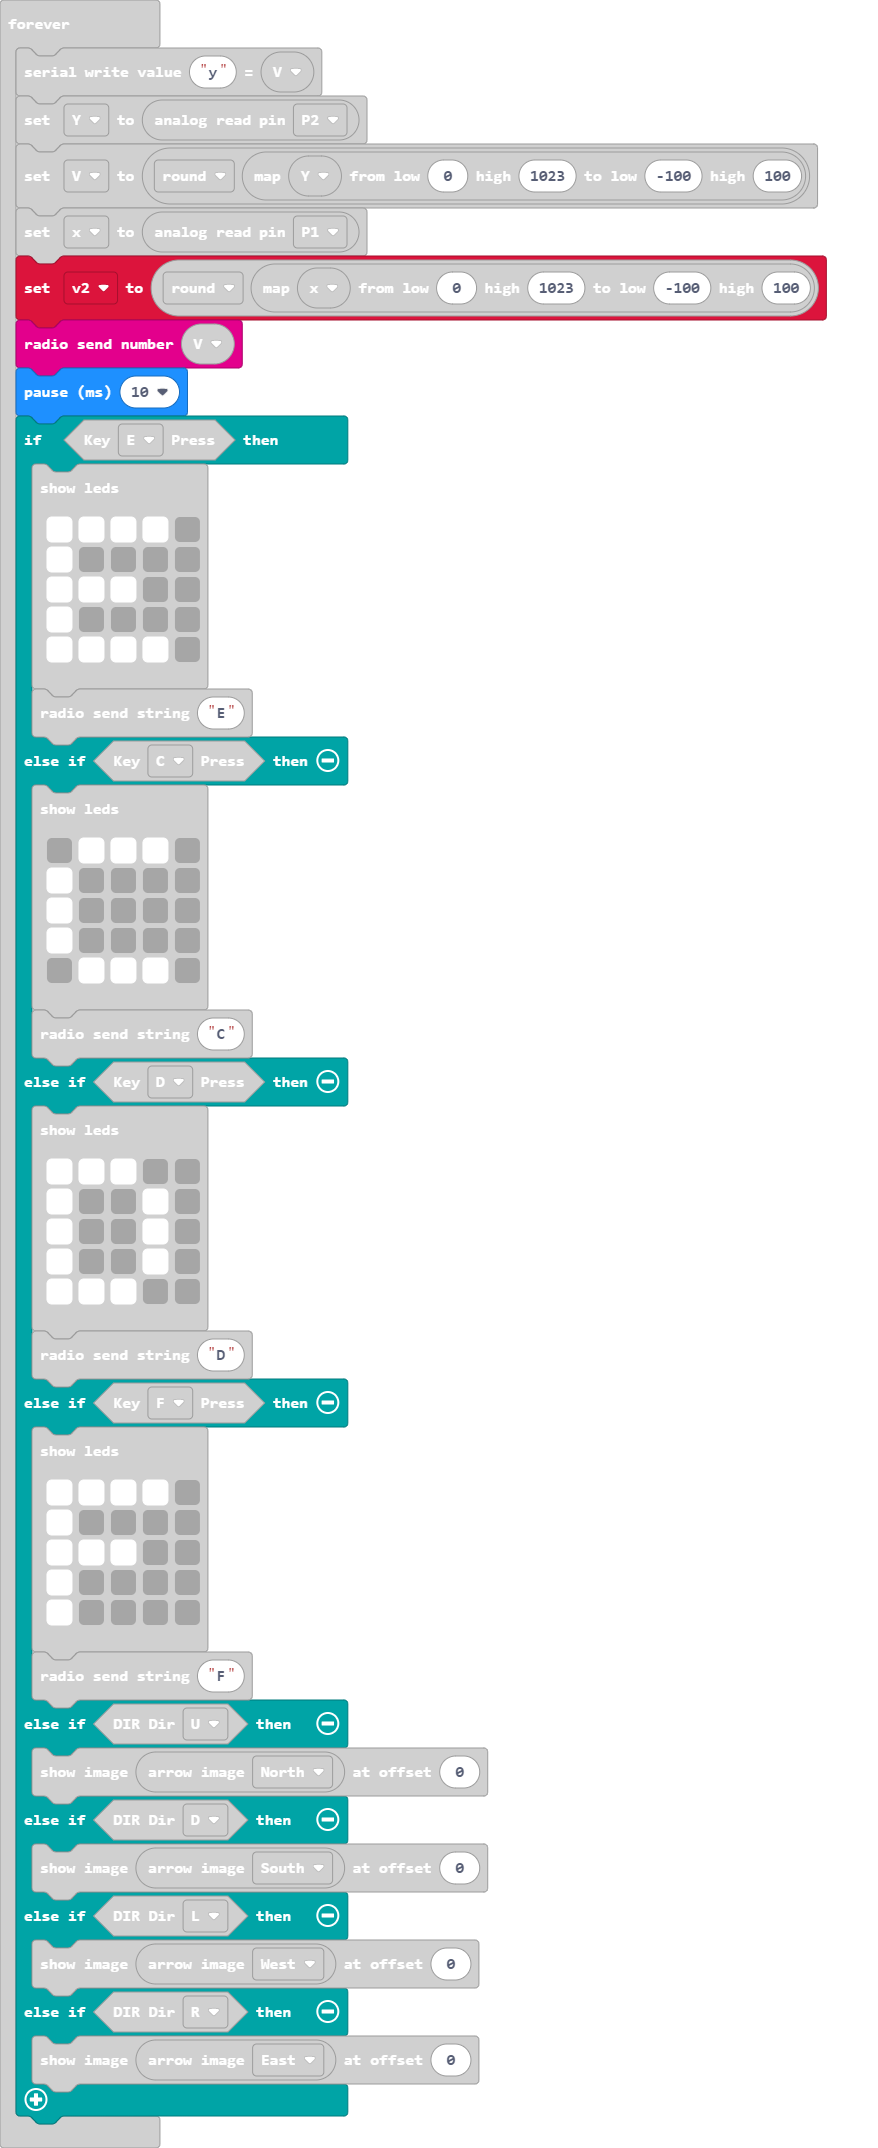
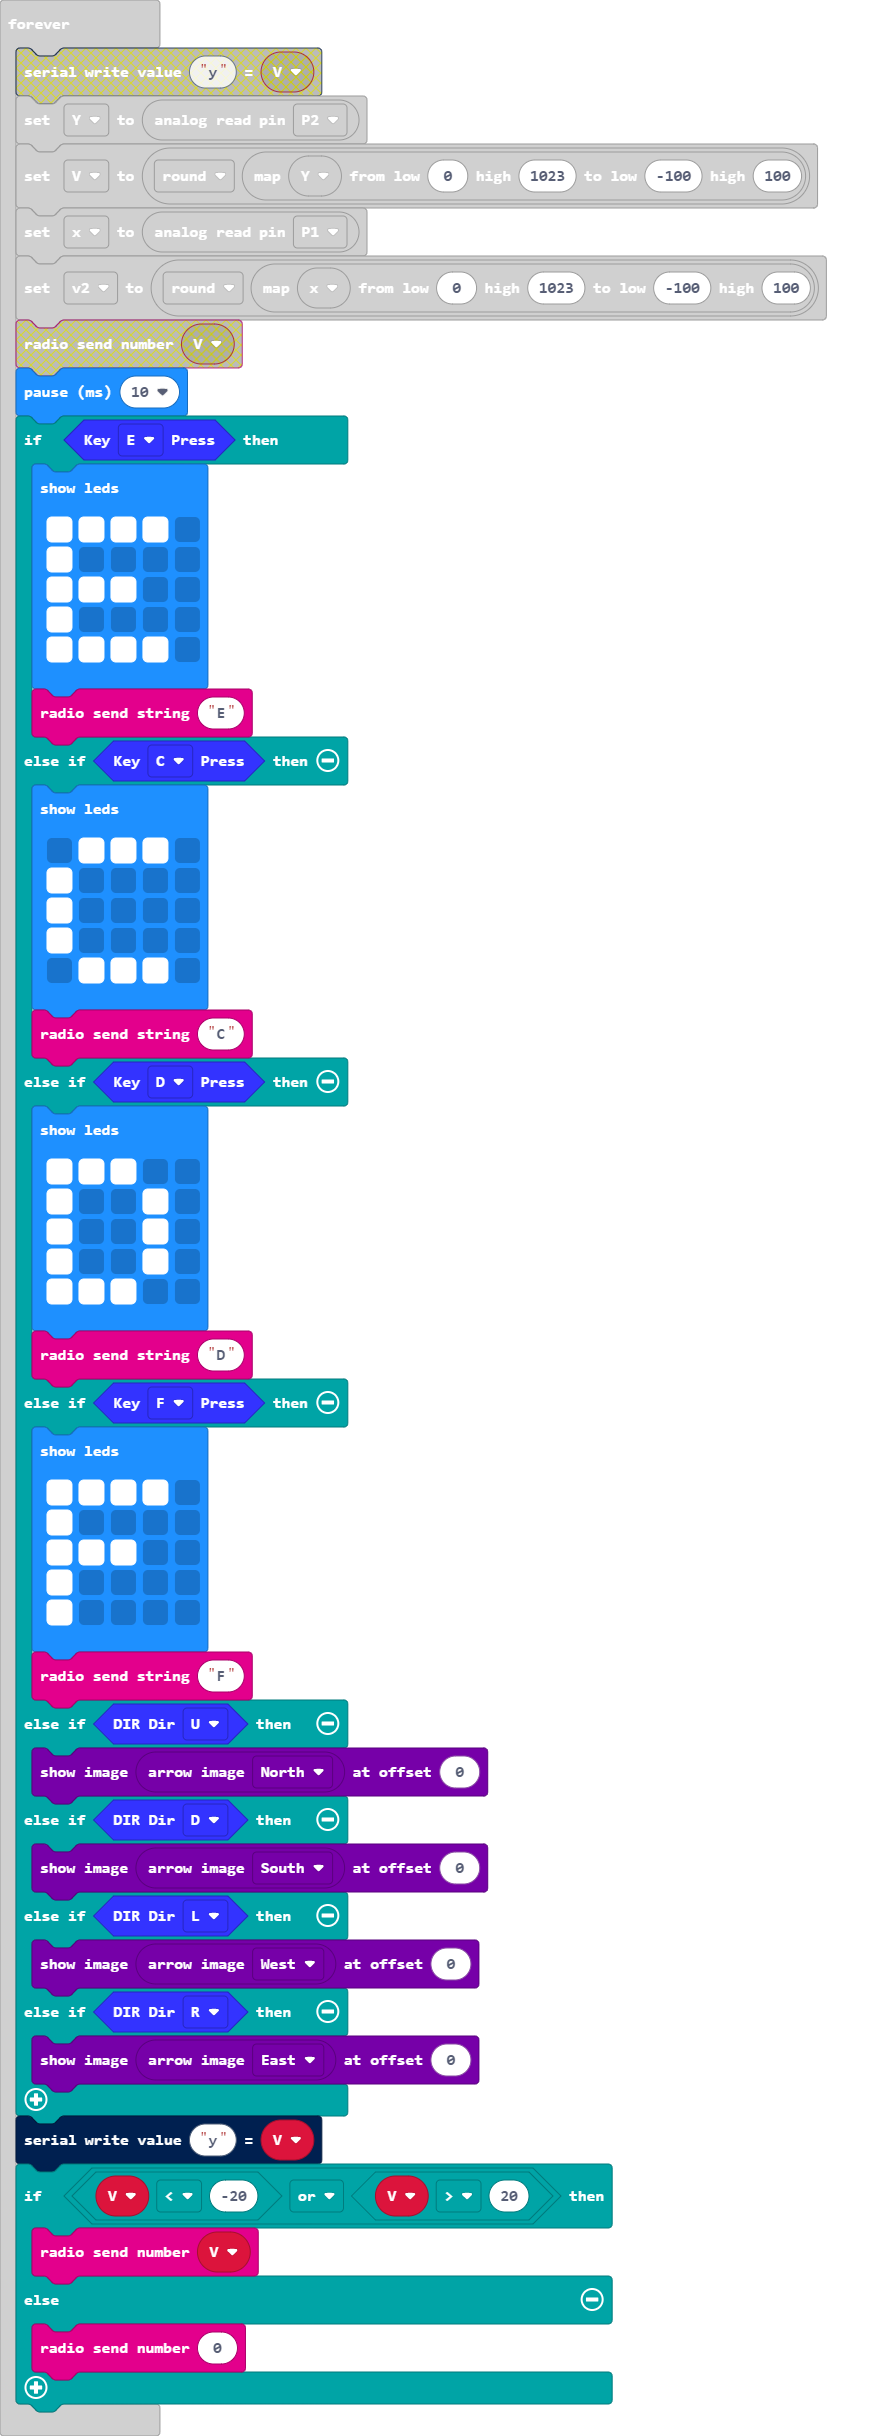
Update main.blocks, main.ts

diff --git a/main.ts b/main.ts
@@ -1,18 +1,22 @@
 let v2 = 0
 let x = 0
-let Y = 0
 let V = 0
+let Y = 0
 WSJoyStick.JoyStickInit()
 radio.setGroup(123)
 radio.sendString("S,W,N,E")
 basic.showIcon(IconNames.Asleep)
 basic.forever(function () {
-    serial.writeValue("y", V)
     Y = pins.analogReadPin(AnalogPin.P2)
     V = Math.round(Math.map(Y, 0, 1023, -100, 100))
     x = pins.analogReadPin(AnalogPin.P1)
     v2 = Math.round(Math.map(x, 0, 1023, -100, 100))
-    radio.sendNumber(V)
+    serial.writeValue("y", V)
+    if (V < -20 || V > 20) {
+        radio.sendNumber(V)
+    } else {
+        radio.sendNumber(0)
+    }
     basic.pause(10)
     if (WSJoyStick.Listen_Key(KEY.E)) {
         basic.showLeds(`
